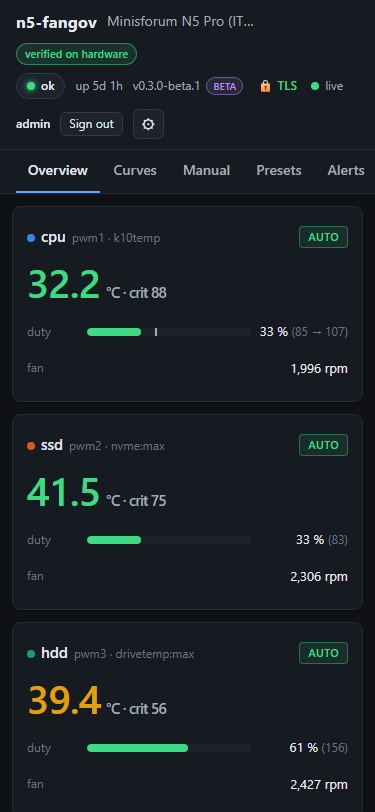
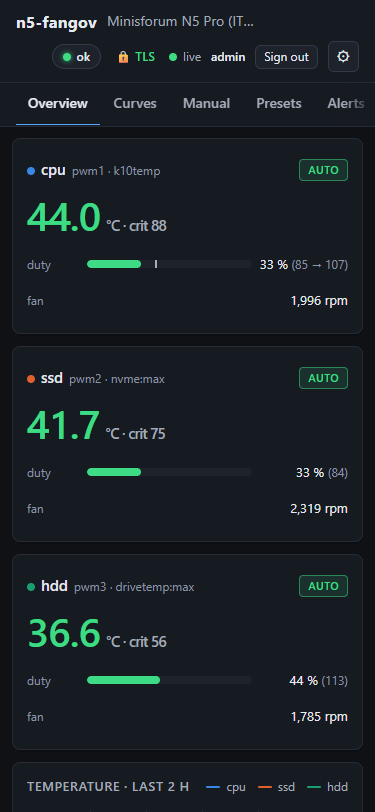
docs: screenshots regenerated for 0.3.0-rc1, audit status

diff --git a/docs/AUDIT.md b/docs/AUDIT.md
@@ -33,6 +33,8 @@ Nur gelesen und gemessen; **kein Code geändert**. Diese Datei ist die Mängelli
 | 9 Dokumentation | 0 | 2 | 7 | 5 | 14 |
 | **Summe** | **0** | **7** | **46** | **77** | **130** |
 
+**Stand 0.3.0-rc1 (16.09.2026, 19:45):** Die mittleren Befunde aller Bereiche sind in `v0.3.0-rc1` umgesetzt (Toolchain Go 1.26 + toml 1.6, Auth-Limiter mit /64-Zähler, Adress-Cap und globalem Hash-Semaphor, Legacy-Hash-Migration beim Login, `--password`-Literal entfernt, `behind_tls_proxy`, `strict=1` für den Kurven-Editor, I/O-Fehler 500, 405 als JSON, vollständige Alarmarten, journald-Prioritäten, logfile-Reopen, `Deps.Log` typisiert, `internal/fsutil`, Sysinfo-Lows, CLI-Argumentprüfung, Normalisierung, Grenzwert-/CLI-/Session-Tests, LICENSE-Volltext, CHANGELOG, DESIGN konsolidiert, README-Referenzen, Screenshots) — Details im `CHANGELOG.md` Abschnitt 0.3.0-rc1; Review des Gesamt-Diffs (0 High, 2 Medium, 7 Low) mit Fixes `cfecfef`/`981bd16`; live auf dem Referenzhost verifiziert (Sandbox-Score 2.0 OK). Offen bleiben Datei-Umbenennungen (`wiring_v2/v3`, `v3_test`), die Zerlegung von `cmdServe`/`cycle`, `ReadWritePaths`-Verengung und die niedrigen Punkte.
+
 **Stand der Behebung (16.09.2026, nach dem Audit):** alle 7 hohen Befunde behoben und einzeln getestet — Commits `dee927c` (Manual-Tab), `d549eb1` (Goroutine-`t.Fatal`), `527982c` (`-race`-Lauf, `make test-race`), `73b4bc9` (`TestServeSmoke`), `489bdb5` (Button-Kontrast), `0968936` (README Prerequisites/Install/Rollback/Uninstall). Jede Zeile trägt einen **Status**-Vermerk in der Empfehlungsspalte. Kritisch: keine. Mittel/niedrig: unverändert offen. Die sieben Punkte der Go/No-Go-Liste unten sind damit erledigt bis auf die drei mittleren Punkte 2 (Toolchain), 3 (Auth-Limiter) und 7 (Regler-/Editor-Punkte).
 
 Eine Tabellenzeile bündelt teils mehrere gleichartige Fundstellen. Schweregrade: **kritisch** = Datenverlust/Fremdzugriff/Regler gefährdet; **hoch** = blockiert den Pre-Release (Funktionsfehler, Barriere für Erstinstallation, ungeprüfte Nebenläufigkeit); **mittel** = vor `v0.3.0` beheben; **niedrig** = Beta-Zyklus.

diff --git a/docs/DESIGN-AUDIT.md b/docs/DESIGN-AUDIT.md
@@ -8,6 +8,7 @@ Stand: 16.09.2026 · geprüfter Stand: `main` `6d4dfc3` (0.3.0-beta.4 + die sieb
 | Nutzungsumgebung | Windows 11 mit Chrome/Edge/Firefox, Full HD 1920×1080 bei 100 % und 150 % Skalierung (≙ 1280 CSS-px), 1024 px (Laptop 125 %), Smartphone 375 px; Dark-Theme als Standard, Light-Theme |
 | Grundlage | Code der Oberfläche (`internal/web/static/index.html`, `app.js`, `app.css`) und Live-Durchgang aller Hauptaufgaben gegen den eingebauten Mock (`?mock=1`) im Browser; Screenshots: **`docs/screenshots/` existiert nicht** — die geprüften Ansichten sind unten beschrieben, die für die Anleitung nötigen Screenshots in Abschnitt 9 gelistet |
 | Ergebnis | **0 kritisch · 4 hoch · 15 mittel · 33 niedrig** — Go für das Design mit Auflagen (Abschnitt 8) |
+| Stand 0.3.0-rc1 | Alle vier hohen (B01, B13, B32, B33) und die mittleren Befunde umgesetzt (Token-Block, eigene Dialoge, sticky Tabs mit Fade, Mobil-Header, Dirty-Anzeige, Slider-Minimum, deaktivierte Transporte, Schloss-Warnung, Kontraste beider Themes 4,6–9,8:1); Screenshots in `docs/screenshots/` neu erzeugt. Offen: die niedrigen Punkte B18/B19/B21–B23/B25/B27/B28/B30/B38/B41/B42/B50/B51 |
 
 ## 1. Kopf
 
